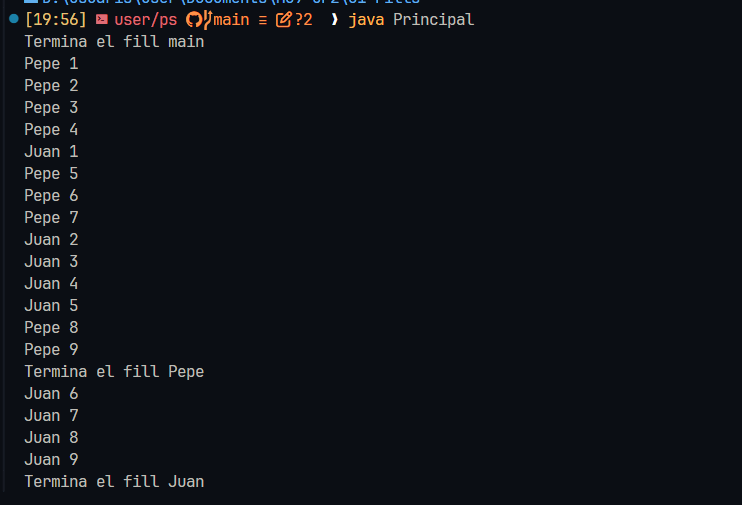
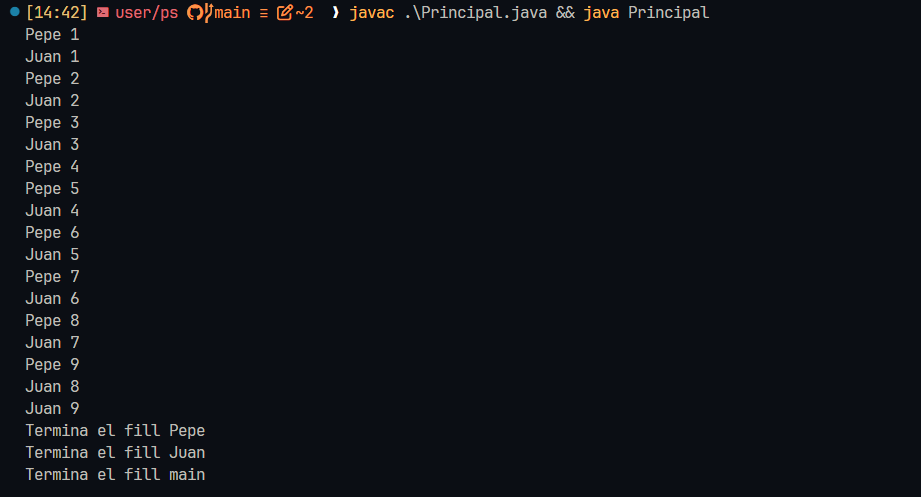
Added third requirement ex 01

Changed region(s): [[0.0, 0.0, 0.7749, 0.9658]]

diff --git a/01-Fills/Principal.java b/01-Fills/Principal.java
@@ -9,11 +9,22 @@ public class Principal {
     Thread juan = new Fill("Juan");
     Thread pepe = new Fill("Pepe");
 
-    pepe.setPriority(9);
-    juan.setPriority(1);
 
-    pepe.start();
-    juan.start();
+    try {
+      pepe.setPriority(5);
+      juan.setPriority(5);
+
+      pepe.start();
+      juan.start();
+
+      pepe.join();
+      juan.join();
+
+    } catch (Exception e) {
+      e.printStackTrace();
+    }
+
+    
 
 
 

diff --git a/01-Fills/Fill.java b/01-Fills/Fill.java
@@ -15,10 +15,13 @@ public class Fill extends Thread {
     for (int i = 1; i <= 10; i++) {
 
 
-      if (i == 10) System.out.printf("Termina el fill %s%n", name);
-      else System.out.printf("%s %d%n", name, i);
+      if (i == 10) System.out.println("Termina el fill "+name);
+      else System.out.println(name + " "+ i);
+
+      Thread.yield();
 
     }
+    
 
   }
 

diff --git a/01-Fills/README.md b/01-Fills/README.md
@@ -1,13 +1,13 @@
 # PRUEBAS EJECUTADAS CON EL PROGRAMA
 
-## Meotodo 1
+## Método 1
 
 ![prueba1](imgs/prueba1.png)
 
-## Prueba 2
+## Método 2
 
 ![prueba2](imgs/prueba2.png)
 
-## Prueba 3
+## Método 3
 
 ![prueba3](imgs/prueba3.png)
